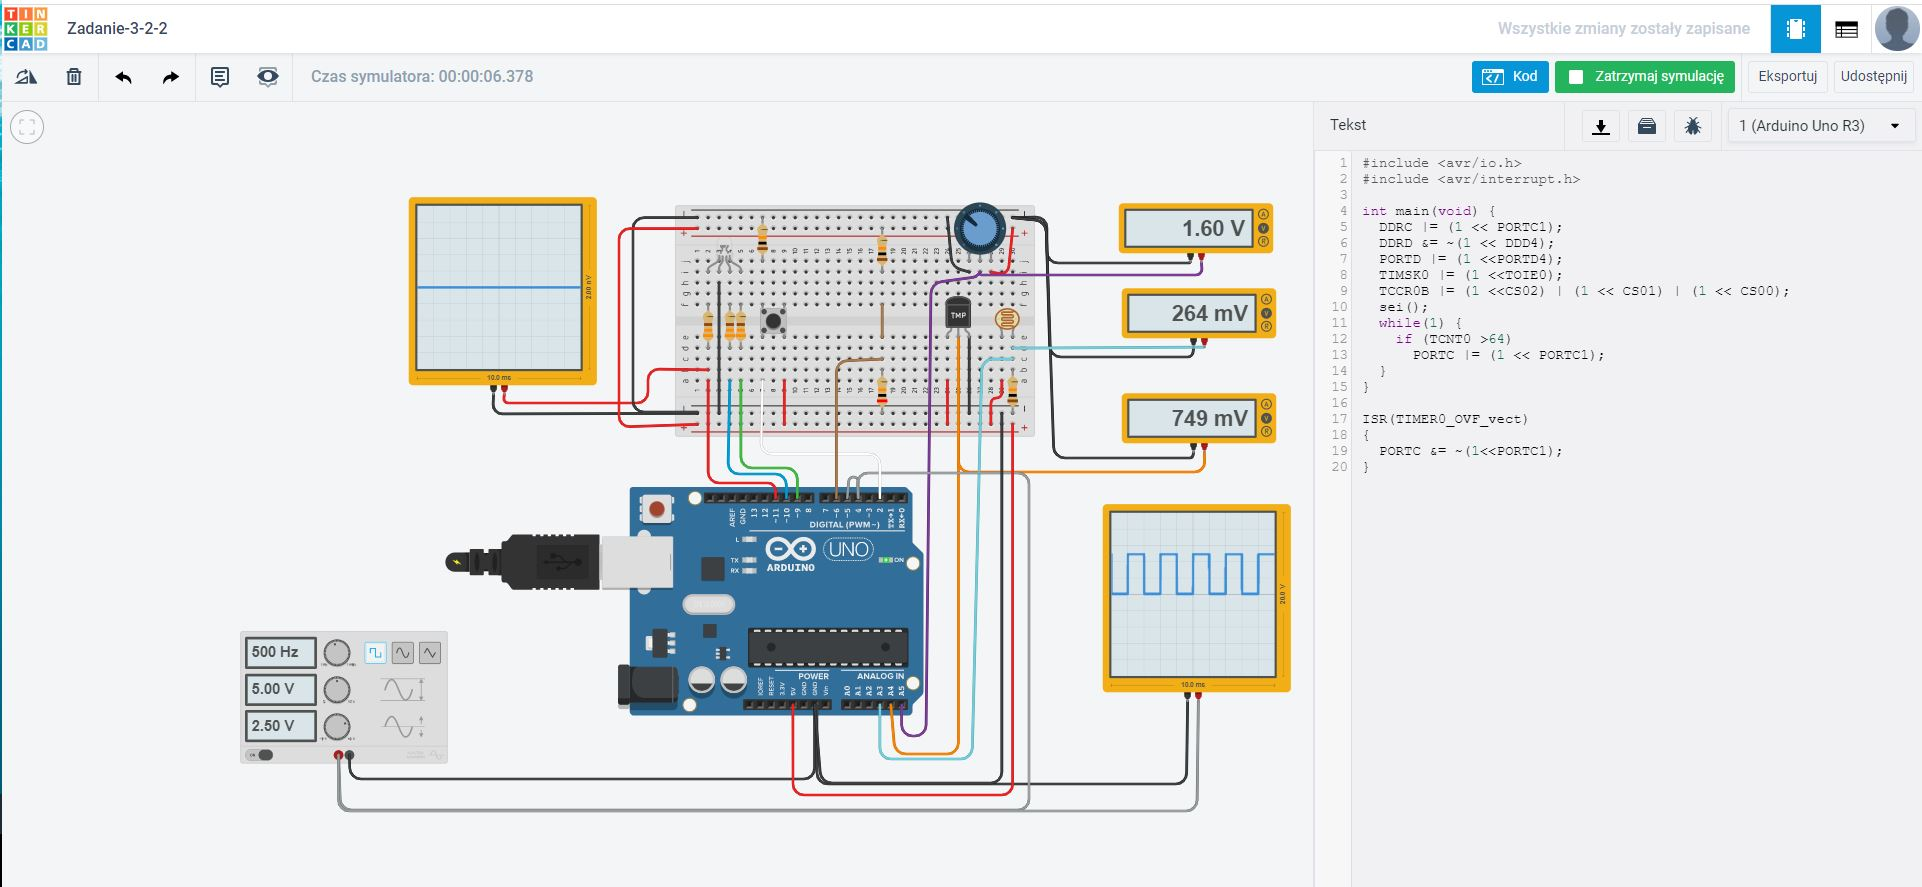
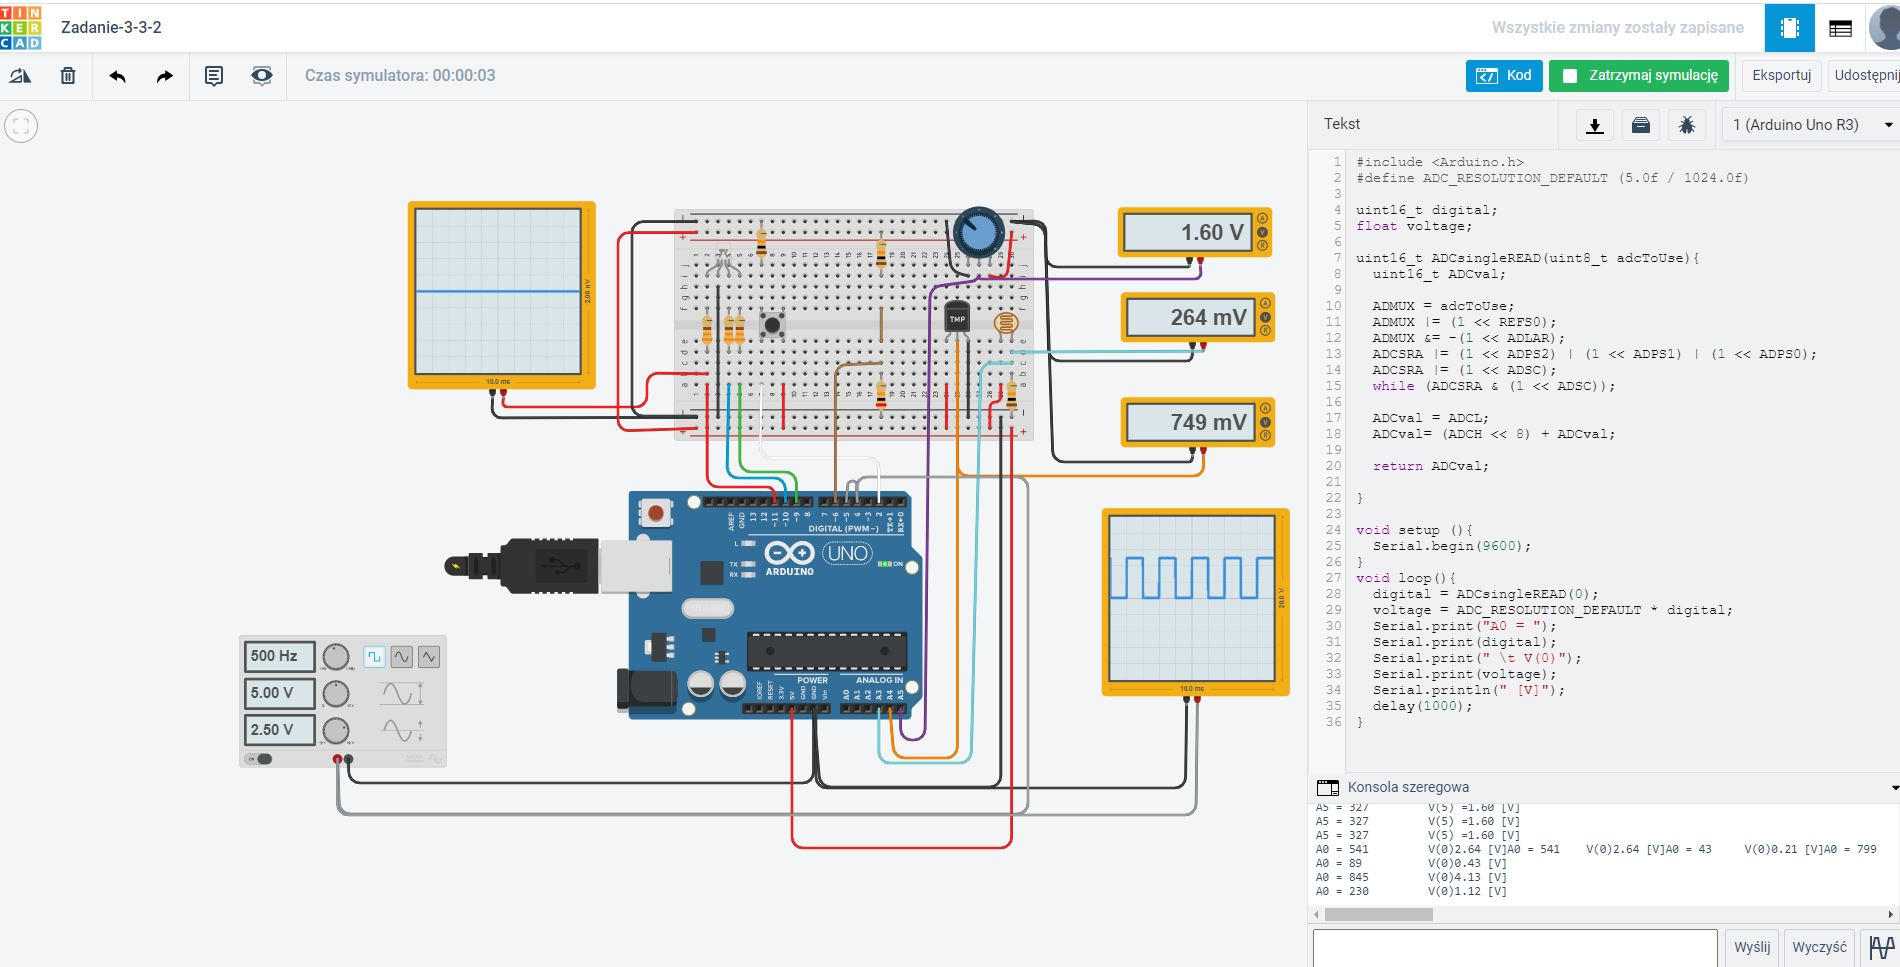
Wykonano zadanie 3.3.2 – ADCsingleREAD

diff --git a/Zadanie-3-3/src/main.cpp b/Zadanie-3-3/src/main.cpp
@@ -1,18 +1,35 @@
 #include <Arduino.h>
-#define ADC_RES_DEF (5.0f / 1024.0f)
+#define ADC_RESOLUTION_DEFAULT (5.0f / 1024.0f)
 
-void setup() {
-  Serial.begin(9600);
-  analogReference(DEFAULT);
-  pinMode(A5, INPUT);
+uint16_t digital;
+float voltage;
+
+uint16_t ADCsingleREAD(uint8_t adcToUse){
+  uint16_t ADCval;
+
+  ADMUX = adcToUse;
+  ADMUX |= (1 << REFS0);
+  ADMUX &= -(1 << ADLAR);
+  ADCSRA |= (1 << ADPS2) | (1 << ADPS1) | (1 << ADPS0);
+  ADCSRA |= (1 << ADSC);
+  while (ADCSRA & (1 << ADSC));
+
+  ADCval = ADCL;
+  ADCval= (ADCH << 8) + ADCval;
+
+  return ADCval;
+
 }
 
+void setup (){
+  Serial.begin(9600);
+}
 void loop(){
-  uint16_t digital = analogRead(A5);
-  float voltage = ADC_RES_DEF * digital;
-  Serial.print("A5 = ");
+  digital = ADCsingleREAD(0);
+  voltage = ADC_RESOLUTION_DEFAULT * digital;
+  Serial.print("A0 = ");
   Serial.print(digital);
-  Serial.print(" \t V(5) =");
+  Serial.print(" \t V(0)");
   Serial.print(voltage);
   Serial.println(" [V]");
   delay(1000);
